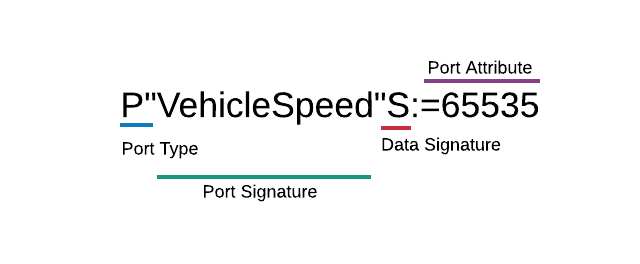
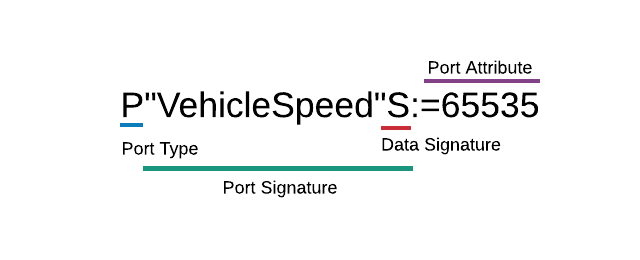
Updated APX Text documentation

Changed region(s): [[0.1875, 0.2154, 0.8438, 0.5846], [0.1875, 0.5231, 0.6562, 0.7692], [0.1875, 0.4615, 0.25, 0.4923]]

diff --git a/doc/apx_text.rst b/doc/apx_text.rst
@@ -7,7 +7,7 @@ APX Text
 
 .. highlight:: none
 
-APX Text is a human-readable data definition language used to describe signals sent/received in an automotive system. APX files are stored on disk using the .apx file ending.
+APX Text is a data definition language used to describe the signals sent from and received to a software component. APX files uses the .apx file extension.
 
 Example (Example.apx)::
 
@@ -60,11 +60,11 @@ The Sender component has two provide ports and can be represented in APX Text as
 
 Line 1: This is the file header, it says that this is an APX file and that the version is 1.2 (current version).
 
-Line 2: The letter N represents an APX Node line. The name of the node is "Sender". Note that in APX we use the term *node* to represent software components.
+Line 2: The letter N represents an APX Node line. The name of the node is "Sender". Note that in APX we use the term *node* instead of *software component*.
 
 Line 3: The letter P represents a provide port line. The name of the port is VehicleSpeed and its type is uint16. The initial value is 65535.
 
-Line 4: This is anohter provide port line. This one has the name EngineSpeed and its type is also uint16. The initial value is 65535.
+Line 4: This is another provide port line. This one has the name EngineSpeed and its type is also uint16. The initial value is 65535.
 
 Similarly, the Receiver component has two require ports and can be represented in APX Text as follows::
 
@@ -76,28 +76,50 @@ Similarly, the Receiver component has two require ports and can be represented i
 Port Lines
 ----------
 
+Port lines consists of several parts:
+
+- Port Type
+- Port Signature
+ 
+  - Port Name
+  - Data Signature
+
+- Port Attributes
+
 .. image:: _static/APX_PortSignature.png
 
-Port lines consists of several parts where the most important bit is the port signature. The port signature consists of the port name followed by its
-data signature. Each port line has an optional port attribute section after the data signature.
-Port attributes are most often used to set the initial value of the port but can also be used to set queued port attributes as well as parameter attributes.
 
 Examples:
 
 +-----------------------------+-----------+-------------------------+----------------+-----------------+
 | Port Line                   | Port Type |   Port Signature        | Data Signature | Port Attributes |
 +=============================+===========+=========================+================+=================+
-| P"VehicleSpeed"S:=65535     | Provide   | "VehicleSpeed"S         | S              | =65535          |
+| P"VehicleSpeed"S:=65535     |   Provide | "VehicleSpeed"S         | S              | =65535          |
 +-----------------------------+-----------+-------------------------+----------------+-----------------+
-| R"EngineSpeed"S:=65535      | Require   | "EngineSpeed"S          | S              | =65535          |
+| R"EngineSpeed"S:=65535      |   Require | "EngineSpeed"S          | S              | =65535          |
 +-----------------------------+-----------+-------------------------+----------------+-----------------+
-| P"ParkBrakeStatus"C(0,3):=3 | Provide   | "ParkBrakeStatus"C(0,3) | C(0,3)         | =3              |
+| P"ParkBrakeStatus"C(0,3):=3 |   Provide | "ParkBrakeStatus"C(0,3) | C(0,3)         | =3              |
 +-----------------------------+-----------+-------------------------+----------------+-----------------+
 
-Data Signatures
----------------
+Port Type
+~~~~~~~~~
 
-Primitive types::
+Port type is a single character where P stands for (start of) Provide port and R stands for (start of) Require port.
+
+Port Signature
+~~~~~~~~~~~~~~
+
+The port signature is the port name and data signature combined (with its port direction removed).
+
+Data Signature
+~~~~~~~~~~~~~~
+
+The data signature is also known as the data type. It can be a simple, one-letter character or it can be a complex data type or even a type reference.
+
+Primitive types
+^^^^^^^^^^^^^^^
+
+::
 
    a: string (null-terminated ASCII string)
    c: sint8  (signed 8-bit value)
@@ -109,28 +131,95 @@ Primitive types::
    L: uint32 (unsigned 32-bit value)
    U: uint64 (unsigned 64-bit value)
 
-Array type signature:
-~~~~~~~~~~~~~~~~~~~~~
+Examples::
 
-Each primitive type character may be optionally followed by the characters "[n]" where n is the array length (repeat count).
-Strings (a) must always be defined as array types. Note that for strings the last character is always reserved for the null-terminator.
+   P"OutPort1"c:=127 #Provide port with type sint8 and initial value 127
+   P"OutPort2"C:=255 #Provide port with type uint8 and initial value 255
+   R"InPort1"s:=-1   #Require port with type sin16 and initial value -1
+   R"InPort2"S       #Require port with type uint16 and no initial value (which defaults to 0)
+  
+Min/Max Value Range
+^^^^^^^^^^^^^^^^^^^
+
+Each primitive type can have an optional min/max value range appended to it. This is done by adding **(min,max)** to the right of the primitive type.
+
+Any port which as no min/max range simply assumes that the entire range of the underlying data type is a valid range
 
 Examples::
+
+   R"IsEngineRunning"C(0,1)      #type:uint8, min:0, max:1
+   R"UnitSelection"C(0,3)        #type:uint8, min:0, max:3
+   P"LightSensorValue"S(0,10000) #type:uint16, min:0, max:10000
+   P"U8Signal"C                  #type: uin8, min:0, max:255 (implicit)
+   P"U16Signal"S                 #type: uin8, min:0, max:65535 (implicit)
+
+Min/max range is part of the port/data signature. The following 2 port signatures are **not** the same.
+Since the second signal has no min/max range, it gets implictly treated as if it said C(0,255), which is the full range of its data type (uint8 in this case).
+
+::
    
-   S[4]  array of uint16 with array-length=4
-   a[20] string of 20 characters (the last character is reserved for the null terminator)
+   R"LowFuelLevelWarning"C(0,3)  #This is not the same
+   R"LowFuelLevelWarning"C       # as this one
 
-Complex type signature: 
-~~~~~~~~~~~~~~~~~~~~~~~
+   
 
-Record types (struct-like elements) can be created by prepending your APX string with the '{' character and ending with '}'. Each record-element begins with a string
-containing the name (embedded in '"' characters) followed by a primitive type character (with optional array modifier).
-     
+Array Types
+^^^^^^^^^^^
+
+Arrays can be constructed by appending **[n]** to the right of any data type where **n** is represents the array length.
+
+In case of strings, using the *a* character the array length represents the maximum number of bytes the character can contain.
+For short strings, when not all bytes are used, the unused bytes will automatically be set to value zero, or NULL.
+
 Examples::
-   
-   {"e1"C"e2"S"e3"a[5]}
-     record with elements e1 (uint8), e2 (uint16) and e3 (string)
 
+  P"Name"a[40]:=""  #type: string, number of bytes: 40
+  R"U16Value"S[4]   #type: uint16, array-length: 4 (uses 8 bytes of memory)
+  P"U32Value"L[3]   #type: uint32, array-length: 3 (uses 12 bytes of memory)
+  
+When combining with min/max range you should place **(min,max)** to the left of **[n]**.
 
+Example::
 
+   P"SpeedSettings"C(0,3)[4] #array of 4 uint8 integers where each has min=0 and max=4.
 
+Record Types
+^^^^^^^^^^^^
+
+TBD
+
+Type References
+^^^^^^^^^^^^^^^
+
+TBD
+
+Port Attributes
+~~~~~~~~~~~~~~~
+
+Port attributes are an optional part of the port line. They are most often used to set the initial (or default) value of the port
+but can also be used to set queued port attributes as well as parameter attributes.
+
+Port attributes are always placed at the very end of the port line, after the data signature.
+Use a **:** character to mark the end of the data signature and start of the port attribute.
+The **:** character is not part of the actual attribute, it is merely used as a separator.
+
+Examples:: 
+
+   R"VehicleSpeed"S:=65535 #Init value: 65535
+   R"UnitSelection"C(0,3):=3  #Init value: 3
+
+Initial value
+^^^^^^^^^^^^^
+
+Initial value, init value or default value uses the **=** character as the first character to say "here starts the inital value".
+
+Remember:
+
+- The **:** character is the separator between port signature and port attribute
+- The **=** character act as the first character of the initial value.
+
+Examples::
+
+   =7                #init value: 7
+   =255              #init value: 255
+   ={255, 255, 255}  #Init value: {255, 255, 255}
